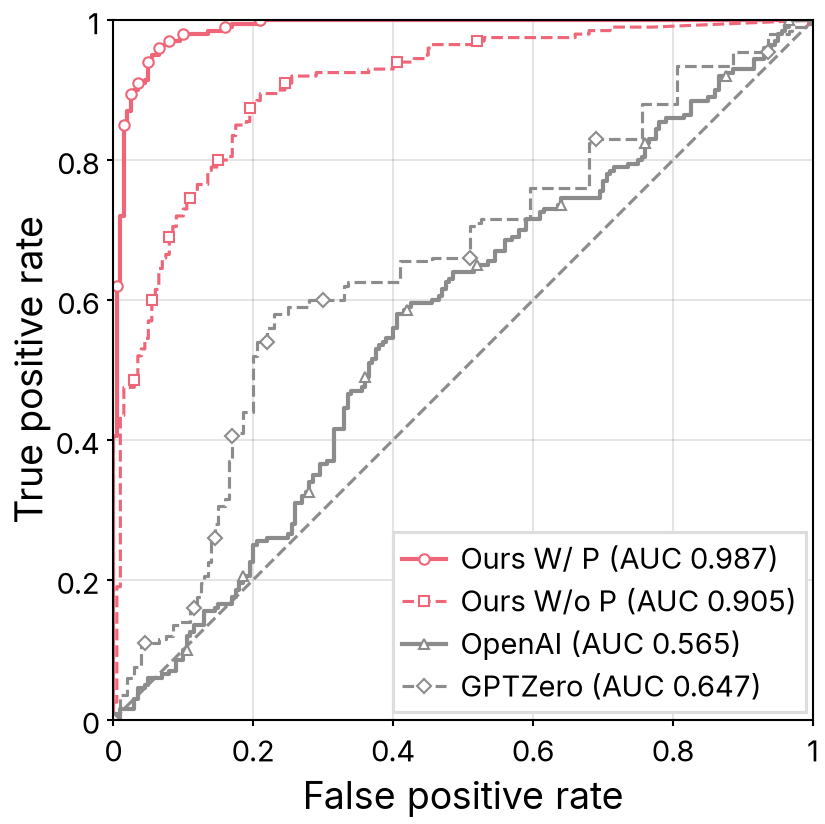
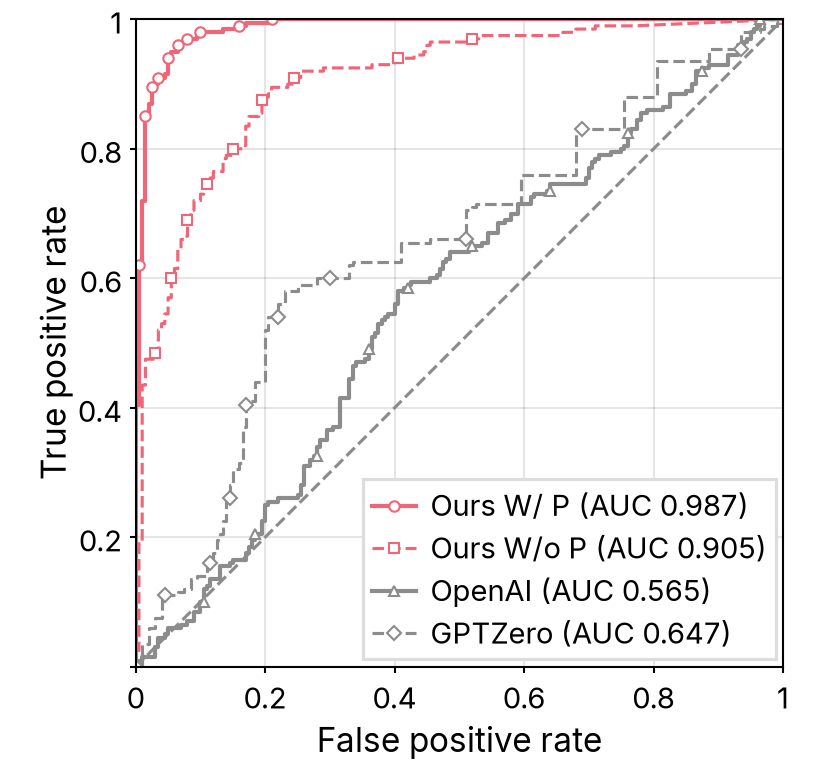
Iteration 8 fixes: ours variants by marker, automatic corner labels, wider word gap
- Variants of ours stay solid and differ by marker; dashes belong to grey series
- fit_height blanks the y axis's first tick label when it would touch the x one
- Side-by-side texts need 0.35 em on each side
- "#.3g" values drop a bare trailing point; uncited-place statistics go in the caption

Claude-Session: https://claude.ai/code/session_01Vy1dAkyLNTuzaw6HFfW3zb

diff --git a/skills/academic-figure/assets/paper.py b/skills/academic-figure/assets/paper.py
@@ -224,9 +224,9 @@ def _texts_overlap(a, box_a, b, box_b, renderer):
     outline, since its upright bounding box also covers the empty corners around it."""
     a_rotated, b_rotated = a.get_rotation() % 180 != 0, b.get_rotation() % 180 != 0
     if not (a_rotated or b_rotated):
-        # side by side, upright texts need a word space between them (a quarter of the type size on each
+        # side by side, upright texts need a clear word space between them (0.35 of the type size on each
         # side), or neighbours read as one at print size ("2561024", "Prefix tuningAdapter")
-        gap = 0.25 * max(a.get_fontsize(), b.get_fontsize()) * a.figure.dpi / 72
+        gap = 0.35 * max(a.get_fontsize(), b.get_fontsize()) * a.figure.dpi / 72
         return Bbox.from_extents(box_a.x0 - gap, box_a.y0, box_a.x1 + gap, box_a.y1).overlaps(box_b)
     if a_rotated and b_rotated:
         outline_a, outline_b = _rotated_outline(a, box_a, renderer), _rotated_outline(b, box_b, renderer)
@@ -380,6 +380,25 @@ def _standard_box(fig, panels, aspect):
     return True
 
 
+def _clear_corners(fig, panels):
+    """Where the first tick labels of both axes would touch at the shared corner, blank the y one."""
+    fig.canvas.draw()
+    renderer = fig.canvas.get_renderer()
+    for a in panels:
+        firsts = []
+        for axis in (a.xaxis, a.yaxis):
+            lo, hi = sorted(axis.get_view_interval())
+            shown = [(loc, t) for loc, t in zip(axis.get_majorticklocs(), axis.get_majorticklabels())
+                     if lo <= loc <= hi and t.get_visible() and t.get_text()]
+            firsts.append(min(shown, key=lambda p: p[0]) if shown else None)
+        if None in firsts:
+            continue
+        (_, tx), (loc, ty) = firsts
+        if _texts_overlap(tx, tx.get_window_extent(renderer), ty, ty.get_window_extent(renderer), renderer):
+            label = a.yaxis.get_major_formatter()
+            a.yaxis.set_major_formatter(FuncFormatter(lambda v, pos, first=loc, label=label: "" if np.isclose(v, first) else label(v, pos)))
+
+
 def _start_at_zero(panels):
     """A quantity that is never negative never shows negative values: raise a default margin below 0 to 0."""
     for a in panels:
@@ -486,6 +505,7 @@ def fit_height(fig, ax, aspect=0.618, iters=10, tol=0.005, min_width=1.2):
     if max(widths) - min(widths) > tol * max(widths):
         warnings.warn("panels have different widths, so not all can match the aspect; "
                       f"panel ratios: {[round(r, 3) for r in ratios]}")
+    _clear_corners(fig, panels)
     if _standard_box(fig, panels, aspect):
         _keep_value_labels_inside(fig, panels)
         ratios = _panel_ratios(fig, panels)[0]

diff --git a/skills/academic-figure/assets/DESIGN.md b/skills/academic-figure/assets/DESIGN.md
@@ -93,7 +93,7 @@ The `colors` tokens are Paul Tol's color-blind-safe `bright` set by role; `color
 |---|---|
 | "Ours" among baselines or ablations: the authors' method, or else the series the takeaway is about (an RL-trained model against its base) | `ours` for ours; every series it is compared against in `neutral` |
 | Ours against its own ablation (with vs. without a component, the takeaway is the component) | the full method `ours`, the ablated variants `neutral`, as compared series |
-| Variants of ours compared together against other methods | all `ours`; the full method solid and first in the legend, each reduced variant in the next line style |
+| Variants of ours compared together against other methods | all `ours` and solid (the dashes belong to grey series), told apart by marker shape, `"o"`, `"s"`, `"^"`; the full method first in the legend |
 | Parts of one whole (a pie's wedges, a stacked area's bands, a stacked bar's segments) | every part its own color, `series-1` to `series-6` in order: each part must be told from its neighbours, and all of them make the whole (parts are not compared series, so all six colors are free here) |
 | Some series the takeaway names, among others it does not | the named ones `series-1`, `series-2`, …; the rest `greys(n)` |
 | Several series compared on equal terms, no "ours" (models in a survey, correct vs. incorrect answers, error types) | `series-1`, `series-3`, `series-4`, … in order, skipping the `ours` color, which means ours in every figure of the paper |
@@ -125,7 +125,7 @@ One family, `Inter` (bundled), for all text and math, regular weight everywhere 
 
 - **Numeric tick labels**: horizontal plain numbers (`fit_height` writes matplotlib's default numeric ticks this way, so `0.0, 0.5, 1.0` print as `0, 0.5, 1`), written as short as they read, `0, 0.5, 1`, `1024`, never rotated, never `2³` or `1e+06`: `ax.yaxis.set_major_formatter(lambda v, _: f"{v:.10g}".replace("-", "−"))` (keeping the minus sign). Values of 10,000 and up take SI suffixes (`10K`, `1M`, `1B`), or the unit is scaled in the axis label ("Training step (K)"); on log axes, powers of ten are plain from 0.001 to 1000, then `1e-4` below. An axis of shares is labelled in percent, `0%, 50%, 100%`, as its values are written (Value labels).
 - **Tick choice**: the x values a chart file names (stage switches), or else numbers the reader can name, evenly spaced (on a log axis, powers of the base, every one or every second, fifth, …), with the ends of the data range labelled where the axis allows; within that, choose what reads best. When `fit_height` reports tick labels overlapping, label fewer of them, but keep a tick and gridline at every step, so the grid stays as fine as the data: `ax.set_xticks(ticks, labels=[str(t) if i % m == 0 else "" for i, t in enumerate(ticks)])`. Panels that share an axis share its ticks.
-- **Corner labels**: when `fit_height` reports the first tick labels of both axes overlapping at the shared corner, drop the y axis's first label: `ticks = [t for t in ax.get_yticks() if lo <= t <= hi]` (`lo, hi = ax.get_ylim()`), `ax.set_yticks(ticks, labels=["", *[f"{t:.10g}" for t in ticks[1:]]])`.
+- **Corner labels**: when the first tick labels of both axes would overlap at the shared corner, `fit_height` drops the y axis's first label itself.
 - **Text tick labels** (non-numeric names) that `fit_height` reports overlapping, by what they name:
   - **Unordered categories, one value each** (methods, models, groups in one bar, error bar or box chart): swap the axes so the names read horizontally down the y axis (horizontal bars, a forest plot, horizontal boxes), ordered top to bottom as under Order.
   - **Names down the y axis** (a heatmap's rows, horizontal bars) that overlap: give the panel height, by widening it at its own aspect (Collisions step 3).
@@ -305,7 +305,7 @@ Pick the first row that fits:
 
 ### Value labels
 
-Reported results the takeaway compares are written on the plot, so the reader reads them exactly; diagnostics carry none, and distributions only the summary statistics the takeaway cites (means), where their chart file places them. Each chart file says where (`mark_value` on curves, `ax.bar_label` on bars). Values are written by the first row that applies, in labels and caption alike:
+Reported results the takeaway compares are written on the plot, so the reader reads them exactly; diagnostics carry none, and distributions only the summary statistics the takeaway cites (means), where their chart file places them, or in the caption when it gives no place. Each chart file says where (`mark_value` on curves, `ax.bar_label` on bars). Values are written by the first row that applies, in labels and caption alike:
 
 | Value | Written as |
 |---|---|
@@ -315,7 +315,7 @@ Reported results the takeaway compares are written on the plot, so the reader re
 | 1000 or more | a whole number, `f"{v:.0f}"`: `1234` (from 10,000, `f"{v:,.0f}"`) |
 | A difference of two values shown | the decimals of the shown values, so the reader's own subtraction agrees: 0.879 − 0.865 = `0.014` |
 | A ratio | three significant figures: `1.91×` |
-| Anything else | three significant figures, trailing zeros kept, `f"{v:#.3g}"`: `85.0`, `0.912` |
+| Anything else | three significant figures, trailing zeros kept, `f"{v:#.3g}".rstrip(".")`: `85.0`, `0.912`, `439` |
 
 - **Look**: 7 pt (`value-label`), in `darken(series_color)` beside a mark, `text_color(fill)` on a fill.
 - **Tag**: a value label written at a data point with `ax.annotate` or `ax.text` (not by `mark_value` or `ax.bar_label`) passes `gid="value-label"`, so `fit_height` keeps it inside its panel like theirs. Labels placed outside the panel on purpose (a histogram's means above it) and point names (even with a value joined) take no tag.
